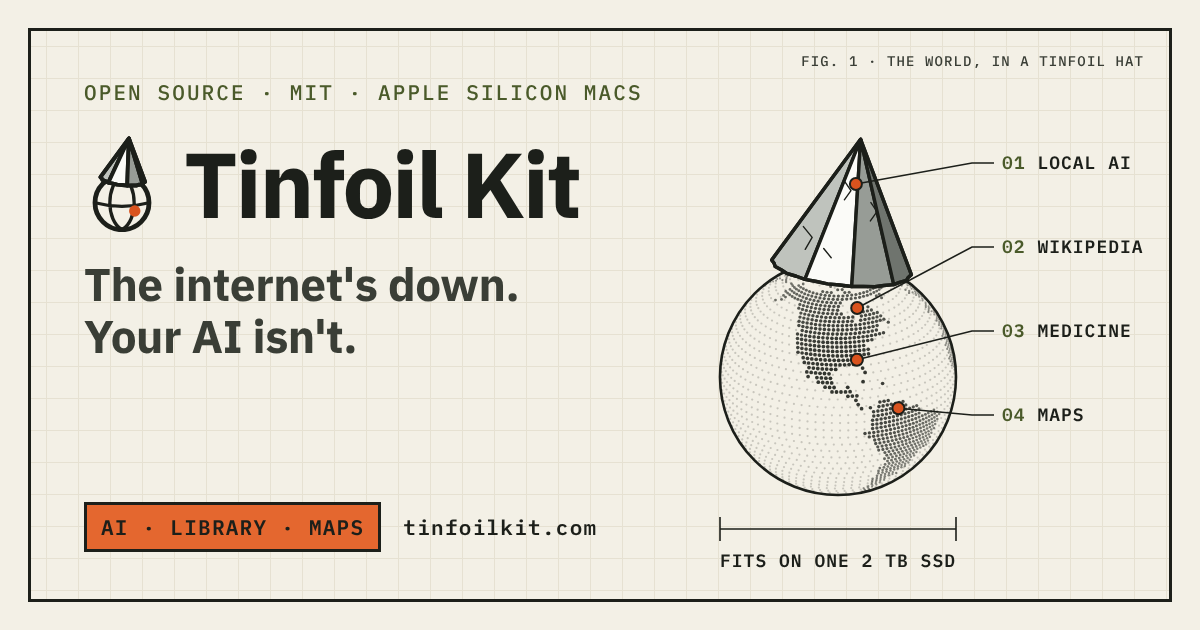
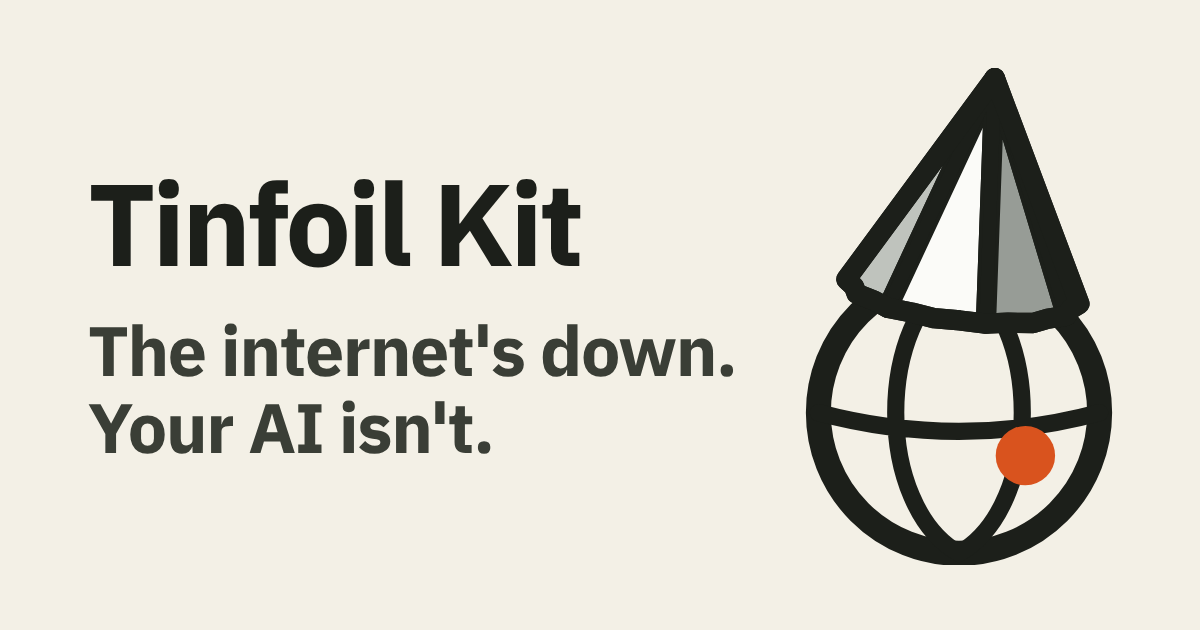
Site: a simpler link-preview card: the name, the headline and the mark
Previews show the card at a quarter of its size or less, and Travis
found the small text unreadable and the dots and lines unneeded. The
card now holds only "Tinfoil Kit", the headline and the mark, all
large. The kicker, callouts, dotted globe, grid, chip, caption and the
2 TB dimension line are gone, so build_images.py no longer reads the
land from hero.js.

Quick gate: QUICK GATE PASSED. Site test with axe: ALL PASSED.

Claude-Session: https://claude.ai/code/session_01Ejz5m1PP7bBggyF69SkGHg

diff --git a/site/index.html b/site/index.html
@@ -13,7 +13,7 @@
 <meta property="og:image" content="https://tinfoilkit.com/og.png">
 <meta property="og:image:width" content="1200">
 <meta property="og:image:height" content="630">
-<meta property="og:image:alt" content="Tinfoil Kit. The internet's down. Your AI isn't. Beside it, a dotted globe wearing a tinfoil hat, labeled local AI, Wikipedia, medicine and maps.">
+<meta property="og:image:alt" content="Tinfoil Kit. The internet's down. Your AI isn't. Beside it, the logo: a globe wearing a tinfoil hat.">
 <meta name="twitter:card" content="summary_large_image">
 <link rel="canonical" href="https://tinfoilkit.com/">
 <link rel="icon" href="/favicon.ico" sizes="32x32">

diff --git a/site/build_images.py b/site/build_images.py
@@ -3,19 +3,14 @@ usage: python3 site/build_images.py   (needs: pip install playwright && playwrig
 Writes site/favicon.ico, site/apple-touch-icon.png, site/og.png and docs/social-preview.png.
 GitHub can't read a repo's preview image from the repo: upload social-preview.png under Settings > General > Social preview."""
 import base64
-import math
 import os
-import re
 import struct
-import sys
 from string import Template
 from playwright.sync_api import sync_playwright
 
 SITE = os.path.dirname(os.path.abspath(__file__))
 ROOT = os.path.dirname(SITE)
-INK, INK2, OLIVE, PAPER, SIGNAL, BUTTON = "#1C1F1A", "#3A3E36", "#4A5A2A", "#F3F0E6", "#D9531E", "#E4672F"
-FOIL = ("#BFC3BD", "#FBFBF8", "#979C96", "#6F746E")    # lit from the left: mid, highlight, shade, shadow
-CRINKLES = "M-15 -13 L-11.5 -9.5 L-13.5 -5 M-2.5 -31 L0.5 -27.5 L-1.5 -24 M8 -24 L10.5 -21 L8.5 -17.5 M-7 -6 L-4 -3"    # so it reads as foil, not a party hat
+INK, INK2, PAPER, SIGNAL = "#1C1F1A", "#3A3E36", "#F3F0E6", "#D9531E"
 HEADLINE = "The internet's down.<br>Your AI isn't."
 
 
@@ -24,111 +19,25 @@ def data_uri(path, mime):
 
 
 ICON = data_uri(os.path.join(SITE, "icon.svg"), "image/svg+xml")
-FONTS = "".join(f"@font-face{{font-family:{fam};font-weight:{wt};src:url({data_uri(os.path.join(SITE, 'fonts', f), 'font/woff2')})}}"
-                for fam, wt, f in (("Sans", "400 700", "plex-sans.woff2"), ("Mono", "500", "plex-mono-500.woff2"), ("Mono", "600", "plex-mono-600.woff2")))
+FONT = data_uri(os.path.join(SITE, "fonts", "plex-sans.woff2"), "font/woff2")
 
-# The card's globe is the hero's: hero.js holds the land as a bitmap of 2-degree cells, rows from the north, bits low first.
-LAND = re.search(r"atob\('([A-Za-z0-9+/=]+)'\)", open(os.path.join(SITE, "hero.js")).read())
-if not LAND:
-    sys.exit("site/hero.js no longer holds the land bitmap as atob('...'): update LAND in this script to match")
-LAND = base64.b64decode(LAND.group(1))
-
-
-def is_land(la, lo):
-    i = int((90 - la) // 2) * 180 + int((lo + 180) // 2) % 180
-    return LAND[i >> 3] >> (i & 7) & 1
-
-
-def hat(scale, outline, crease, teeth=18, crimp=0.025, cuts=(0, 6, 10, 14, 18)):
-    """The foil hat from icon.svg, redrawn with more crimps for large sizes. Base center at (0,0), base 50 wide, tip at (2,-46)."""
-    pts = []
-    for i in range(teeth + 1):
-        t, k = math.pi * (1 - i / teeth), (1 - crimp if i % 2 else 1)
-        pts.append(f"{25 * k * math.cos(t):.2f} {6.5 * k * math.sin(t):.2f}")
-    tip = "2 -46"
-    facets = "".join(f'<path d="M{tip} {" ".join(pts[a:b + 1])}Z" fill="{tone}"/>' for a, b, tone in zip(cuts, cuts[1:], FOIL))
-    creases = "".join(f"M{tip} {pts[c]}" for c in cuts[1:-1])
-    return (f'<g transform="scale({scale})" stroke="{INK}" stroke-width="{outline / scale:.3f}" stroke-linejoin="round" stroke-linecap="round">'
-            f'{facets}<path d="{creases}" stroke-width="{crease / scale:.3f}"/><path d="{CRINKLES}" fill="none" stroke-width="{crease * 0.7 / scale:.3f}"/>'
-            f'<path d="M{tip} {" ".join(pts)}Z" fill="none"/></g>')
-
-
-# Each callout points at the hat (in its own frame) or at a place on the globe (latitude, longitude).
-CALLOUTS = (("01", "LOCAL AI", ("hat", 2, -30)), ("02", "WIKIPEDIA", ("geo", 60, -76)),
-            ("03", "MEDICINE", ("geo", 33, -84)), ("04", "MAPS", ("geo", 6, -64)))
-
-
-def figure(x, y, r=118, lam0=-95, phi0=25):
-    """The world in a foil hat, drawn like a plate in a manual: a dotted globe facing North America, the hat, callouts and a dimension line."""
-    l0, p0 = math.radians(lam0), math.radians(phi0)
-
-    def place(la, lo):    # orthographic projection; c is how squarely the point faces us
-        a, b = math.radians(la), math.radians(lo) - l0
-        c = math.sin(p0) * math.sin(a) + math.cos(p0) * math.cos(a) * math.cos(b)
-        return x + r * math.cos(a) * math.sin(b), y - r * (math.cos(p0) * math.sin(a) - math.sin(p0) * math.cos(a) * math.cos(b)), c
-
-    dots = []
-    for step, land in ((2.2, 1), (4.0, 0)):
-        la = -56 + step / 2
-        while la < 84:
-            n = round(360 / step * math.cos(math.radians(la)))
-            for k in range(n):
-                lo = -180 + (k + 0.5) * 360 / n
-                if is_land(la, lo) != land:
-                    continue
-                px, py, c = place(la, lo)
-                if c > 0.06:
-                    dots.append(f'<circle cx="{px:.1f}" cy="{py:.1f}" r="{(0.8 + 1.1 * c if land else 1.1):.2f}" opacity="{(0.3 + 0.6 * c if land else 0.2):.2f}"/>')
-            la += step
-    s, hx, hy, tilt = r / 42, x + r * 0.03, y - r * 0.93, math.radians(6)    # smaller than on the mark, so the land shows
-    anchors = []
-    for num, label, (kind, u, v) in CALLOUTS:
-        if kind == "hat":
-            anchors.append((hx + s * (u * math.cos(tilt) - v * math.sin(tilt)), hy + s * (u * math.sin(tilt) + v * math.cos(tilt))))
-        else:
-            anchors.append(place(u, v)[:2])
-    lx, notes = x + r + 46, ""
-    for i, ((num, label, _), (ax, ay)) in enumerate(zip(CALLOUTS, anchors)):
-        ly = y - 214 + 84 * i
-        notes += (f'<path d="M{lx - 8} {ly} H{lx - 30} L{ax:.1f} {ay:.1f}" fill="none" stroke="{INK}" stroke-width="1.6"/>'
-                  f'<circle cx="{ax:.1f}" cy="{ay:.1f}" r="6" fill="{SIGNAL}" stroke="{INK}" stroke-width="2"/>'
-                  f'<text x="{lx}" y="{ly + 6}" class="lab"><tspan fill="{OLIVE}">{num}</tspan> {label}</text>')
-    return (f'<circle cx="{x}" cy="{y}" r="{r}" fill="{PAPER}"/><g fill="{INK}">{"".join(dots)}</g>'
-            f'<circle cx="{x}" cy="{y}" r="{r}" fill="none" stroke="{INK}" stroke-width="2.6"/>'
-            f'<g transform="translate({hx:.1f} {hy:.1f}) rotate(6)">{hat(s, 3.4, 2)}</g>'
-            f'<g fill="none" stroke="{INK}" stroke-width="1.6"><path d="M{x - r} {y + r + 34} H{x + r} M{x - r} {y + r + 22} V{y + r + 46} M{x + r} {y + r + 22} V{y + r + 46}"/></g>'
-            f'<text x="{x}" y="{y + r + 72}" text-anchor="middle" class="lab">FITS ON ONE 2 TB SSD</text>{notes}')
-
-
-CARD = Template("""<style>$fonts
-*{box-sizing:border-box}
+# Link previews show the card at a quarter of its size or less, so it holds only the name, the headline and the mark, all large.
+CARD = Template("""<style>
+@font-face{font-family:Sans;font-weight:400 700;src:url($font)}
 body{margin:0;width:${w}px;height:${h}px;position:relative;overflow:hidden;background:$paper;color:$ink;font-family:Sans}
-.plate{position:absolute;inset:28px;border:3px solid $ink;background-image:linear-gradient(#E6E1D2 1px,transparent 1px),linear-gradient(90deg,#E6E1D2 1px,transparent 1px);background-size:32px 32px;background-position:15px 15px}
-svg{position:absolute;inset:0}
-.lab{font:600 18px Mono;letter-spacing:1px;fill:$ink}
-.copy{position:absolute;left:84px;top:${top}px;bottom:${top}px;width:560px;display:flex;flex-direction:column}
-.kicker{font:500 21px Mono;letter-spacing:.1em;color:$olive}
-.title{display:flex;align-items:center;gap:14px;margin-top:30px;margin-left:-10px}
-h1{margin:0;font-size:92px;line-height:1;font-weight:700;letter-spacing:-.025em;white-space:nowrap}
-.tag{margin-top:26px;font-size:46px;line-height:1.14;font-weight:700;letter-spacing:-.01em;color:$ink2}
-.foot{margin-top:auto;display:flex;align-items:center;gap:22px;font:600 21px Mono;letter-spacing:.06em;white-space:nowrap}
-.chip{background:$button;border:3px solid $ink;padding:8px 14px}
-.cap{position:absolute;right:56px;top:52px;font:500 14px Mono;letter-spacing:.08em;color:$ink2}
+.copy{position:absolute;left:88px;top:0;bottom:0;display:flex;flex-direction:column;justify-content:center}
+h1{margin:0;font-size:116px;line-height:1;font-weight:700;letter-spacing:-.03em}
+p{margin:30px 0 0;font-size:70px;line-height:1.1;font-weight:700;letter-spacing:-.02em;color:$ink2}
+img{position:absolute;right:${right}px;top:${top}px}
 </style>
-<div class="plate"></div>
-<svg viewBox="0 0 $w $h" width="$w" height="$h">$figure</svg>
-<div class="copy">
-<div class="kicker">OPEN SOURCE · MIT · APPLE SILICON MACS</div>
-<div class="title"><img src="$icon" width="96" height="96" alt=""><h1>Tinfoil Kit</h1></div>
-<div class="tag">$headline</div>
-<div class="foot"><span class="chip">AI · LIBRARY · MAPS</span><span>tinfoilkit.com</span></div>
-</div>
-<div class="cap">FIG. 1 · THE WORLD, IN A TINFOIL HAT</div>""")
+<div class="copy"><h1>Tinfoil Kit</h1><p>$headline</p></div>
+<img src="$icon" width="$size" height="$size" alt="">""")
 
 
-def card(w, h):
-    return CARD.substitute(fonts=FONTS, icon=ICON, headline=HEADLINE, w=w, h=h, top=78 + (h - 630) // 2,
-                           figure=figure(w - 362, h // 2 + 62), ink=INK, ink2=INK2, olive=OLIVE, paper=PAPER, button=BUTTON)
+def card(w, h, size=500):
+    # The mark is drawn between x 14 and 50 of its 64-unit box: offset the box so the drawing sits 100 px from the right edge.
+    return CARD.substitute(font=FONT, icon=ICON, headline=HEADLINE, w=w, h=h, size=size, right=100 - 14 * size // 64,
+                           top=(h - size) // 2, ink=INK, ink2=INK2, paper=PAPER)
 
 
 def icon_page(size, background="transparent", pad=0):
